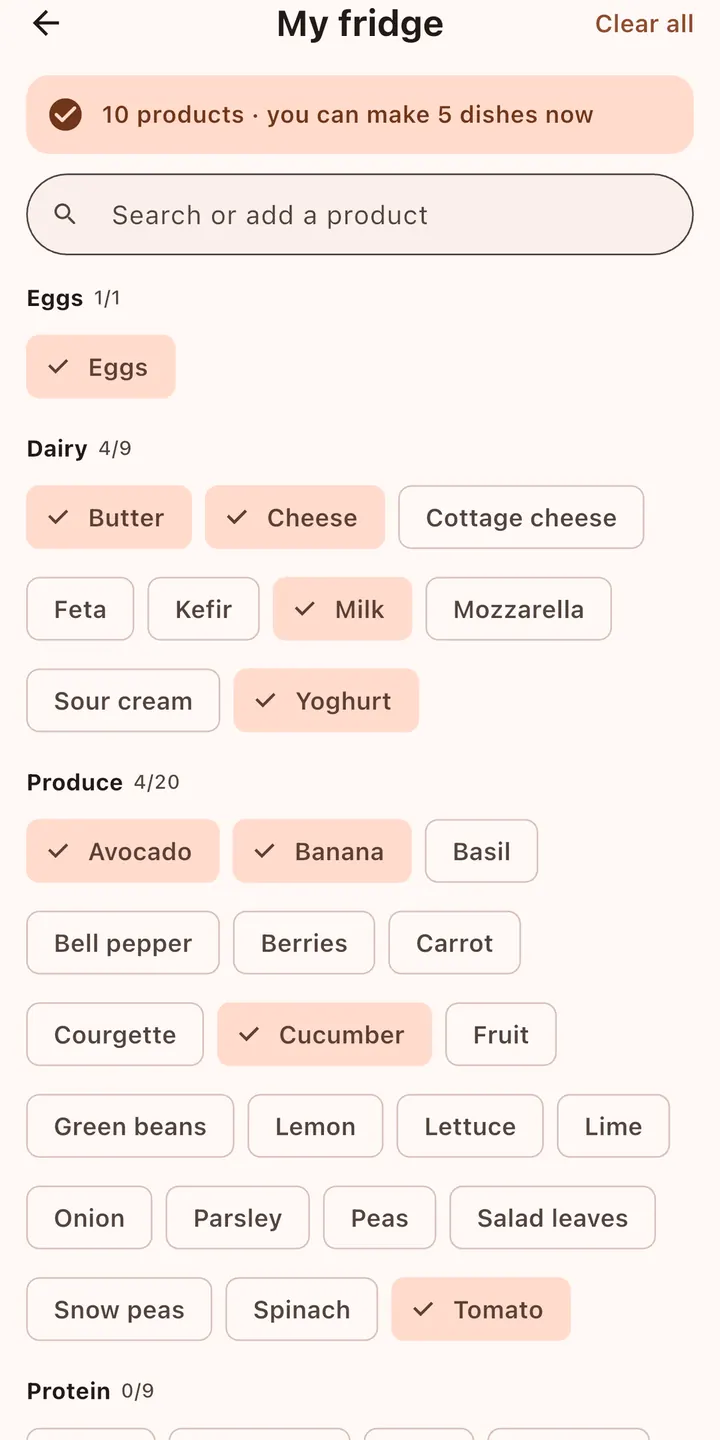
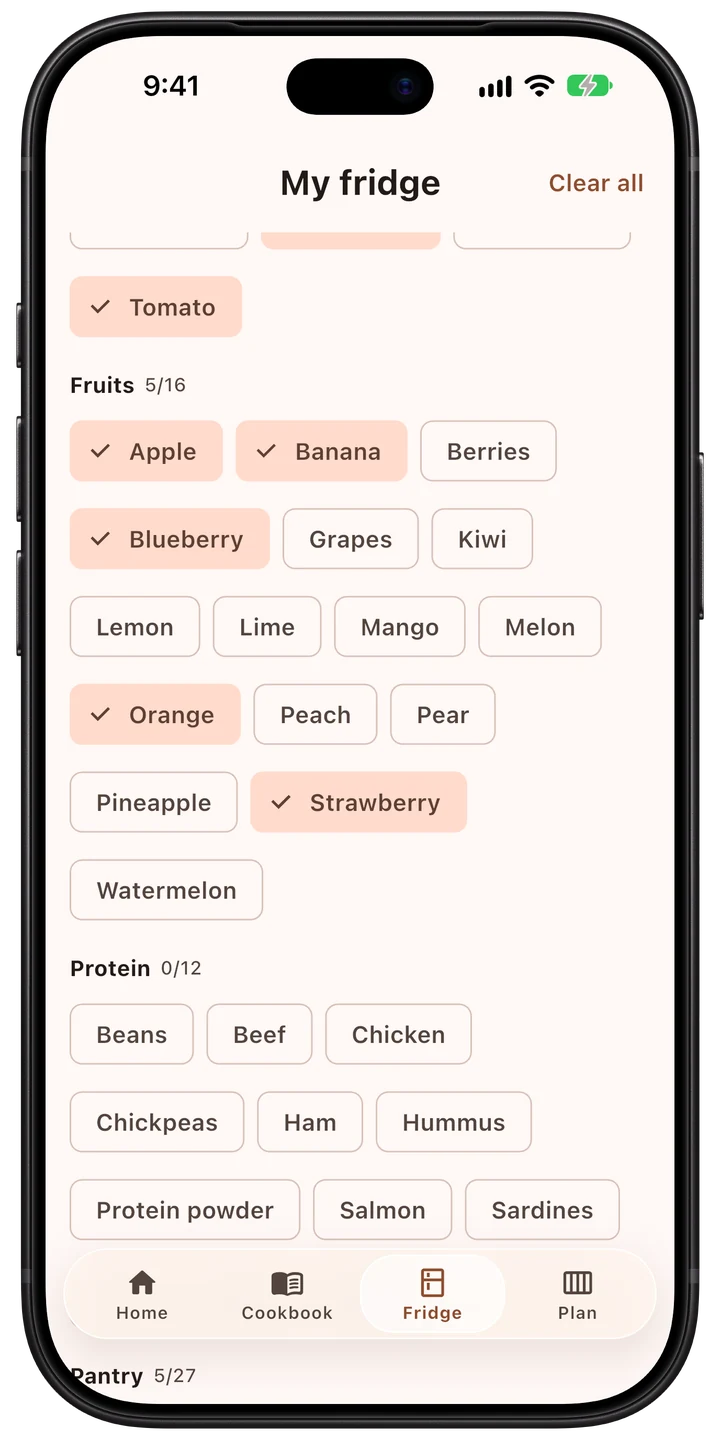
Update framed screenshots for Home, Cookbook, Fridge, Plan and Units
Replace the Home, Fridge, Plan and Open Graph shots with the new
iPhone frames, add Cookbook and Units screenshots, and point the
Cookbook figure at 08_cookbook instead of 01_home.

diff --git a/docs/index.html b/docs/index.html
@@ -31,7 +31,7 @@
 <link rel="icon" href="/fridge-pick-support/favicon.png" type="image/png">
 <link rel="apple-touch-icon" href="/fridge-pick-support/apple-touch-icon.png">
 <link rel="stylesheet" href="/fridge-pick-support/assets/site.css?v=a120239c">
-<script type="application/ld+json">{"@context":"https://schema.org","@graph":[{"@type":"WebSite","@id":"https://pavel-ship-it.github.io/fridge-pick-support/#website","name":"Fridge Pick","url":"https://pavel-ship-it.github.io/fridge-pick-support/","inLanguage":"en","publisher":{"@type":"Person","name":"Pavel Yakimenko"}},{"@type":"MobileApplication","@id":"https://pavel-ship-it.github.io/fridge-pick-support/#app","name":"Fridge Pick: Quick Meal Ideas","alternateName":"Fridge Pick","description":"Tick what’s in your fridge and Home shows what you can cook right now. Quick recipes (15 min or less), a cookbook, I’m hungry suggestions, a week plan and a shopping list. Metric or imperial units. Offline, no account.","url":"https://pavel-ship-it.github.io/fridge-pick-support/","operatingSystem":"iOS, Android","applicationCategory":"LifestyleApplication","applicationSubCategory":"Food & Drink","softwareVersion":"1.0.0","image":"https://pavel-ship-it.github.io/fridge-pick-support/assets/img/icon-512.jpg","screenshot":["https://pavel-ship-it.github.io/fridge-pick-support/assets/img/01_home-720.webp","https://pavel-ship-it.github.io/fridge-pick-support/assets/img/02_recipe-720.webp","https://pavel-ship-it.github.io/fridge-pick-support/assets/img/03_im_hungry-720.webp","https://pavel-ship-it.github.io/fridge-pick-support/assets/img/05_week_plan-720.webp","https://pavel-ship-it.github.io/fridge-pick-support/assets/img/06_shopping_list-720.webp","https://pavel-ship-it.github.io/fridge-pick-support/assets/img/07_my_fridge-720.webp"],"featureList":["Home: what you can cook from what’s at home, with a glass tab bar (Home, Cookbook, Fridge, Plan)","My fridge: tick the products you have, including individual fruits, and see dishes you can make now","Seasonal dishes: an In season line on Home and a Seasonal filter, using the hemisphere of your region","Units: Auto (from the phone), Metric or Imperial","Quick dishes, 15 minutes or less, with photos, recipes and nutrition per serving","I'm hungry: answer a few quick questions and get 3–5 dish suggestions","Week plan for the next 7 days with Fill week and replacement suggestions","Shopping list built from your week plan, shareable as text","Share any recipe as an image card","Allergy filters (11 common allergens) and excluded ingredients","Recipes adapt to your kitchen appliances","Favorites, your own dishes, works fully offline with no account"],"author":{"@type":"Person","name":"Pavel Yakimenko","email":"mailto:dreamcomenull@gmail.com"},"publisher":{"@type":"Person","name":"Pavel Yakimenko"},"inLanguage":"en","sameAs":["https://apps.apple.com/app/id6828103127"]}]}</script>
+<script type="application/ld+json">{"@context":"https://schema.org","@graph":[{"@type":"WebSite","@id":"https://pavel-ship-it.github.io/fridge-pick-support/#website","name":"Fridge Pick","url":"https://pavel-ship-it.github.io/fridge-pick-support/","inLanguage":"en","publisher":{"@type":"Person","name":"Pavel Yakimenko"}},{"@type":"MobileApplication","@id":"https://pavel-ship-it.github.io/fridge-pick-support/#app","name":"Fridge Pick: Quick Meal Ideas","alternateName":"Fridge Pick","description":"Tick what’s in your fridge and Home shows what you can cook right now. Quick recipes (15 min or less), a cookbook, I’m hungry suggestions, a week plan and a shopping list. Metric or imperial units. Offline, no account.","url":"https://pavel-ship-it.github.io/fridge-pick-support/","operatingSystem":"iOS, Android","applicationCategory":"LifestyleApplication","applicationSubCategory":"Food & Drink","softwareVersion":"1.0.0","image":"https://pavel-ship-it.github.io/fridge-pick-support/assets/img/icon-512.jpg","screenshot":["https://pavel-ship-it.github.io/fridge-pick-support/assets/img/01_home-720.webp","https://pavel-ship-it.github.io/fridge-pick-support/assets/img/08_cookbook-720.webp","https://pavel-ship-it.github.io/fridge-pick-support/assets/img/02_recipe-720.webp","https://pavel-ship-it.github.io/fridge-pick-support/assets/img/03_im_hungry-720.webp","https://pavel-ship-it.github.io/fridge-pick-support/assets/img/05_week_plan-720.webp","https://pavel-ship-it.github.io/fridge-pick-support/assets/img/06_shopping_list-720.webp","https://pavel-ship-it.github.io/fridge-pick-support/assets/img/07_my_fridge-720.webp","https://pavel-ship-it.github.io/fridge-pick-support/assets/img/09_settings_units-720.webp"],"featureList":["Home: what you can cook from what’s at home, with a glass tab bar (Home, Cookbook, Fridge, Plan)","My fridge: tick the products you have, including individual fruits, and see dishes you can make now","Seasonal dishes: an In season line on Home and a Seasonal filter, using the hemisphere of your region","Units: Auto (from the phone), Metric or Imperial","Quick dishes, 15 minutes or less, with photos, recipes and nutrition per serving","I'm hungry: answer a few quick questions and get 3–5 dish suggestions","Week plan for the next 7 days with Fill week and replacement suggestions","Shopping list built from your week plan, shareable as text","Share any recipe as an image card","Allergy filters (11 common allergens) and excluded ingredients","Recipes adapt to your kitchen appliances","Favorites, your own dishes, works fully offline with no account"],"author":{"@type":"Person","name":"Pavel Yakimenko","email":"mailto:dreamcomenull@gmail.com"},"publisher":{"@type":"Person","name":"Pavel Yakimenko"},"inLanguage":"en","sameAs":["https://apps.apple.com/app/id6828103127"]}]}</script>
 </head>
 <body class="page-home">
 <a class="skip" href="#main">Skip to content</a>
@@ -72,10 +72,10 @@
     </div>
     <div class="hero-shots">
       <figure class="shot">
-<img src="/fridge-pick-support/assets/img/07_my_fridge-360.webp" srcset="/fridge-pick-support/assets/img/07_my_fridge-360.webp 360w, /fridge-pick-support/assets/img/07_my_fridge-720.webp 720w" sizes="(max-width: 600px) 70vw, 300px" width="360" height="720" alt="My fridge screen: a search field and product chips grouped under Eggs, Dairy and Produce, with some items ticked" fetchpriority="high">
+<img src="/fridge-pick-support/assets/img/07_my_fridge-360.webp" srcset="/fridge-pick-support/assets/img/07_my_fridge-360.webp 360w, /fridge-pick-support/assets/img/07_my_fridge-720.webp 720w" sizes="(max-width: 600px) 70vw, 300px" width="360" height="720" alt="My fridge: the Fruits section with individual fruit chips such as Apple, Banana and Strawberry, and a glass tab bar with Fridge selected" fetchpriority="high">
 </figure>
       <figure class="shot">
-<img src="/fridge-pick-support/assets/img/01_home-360.webp" srcset="/fridge-pick-support/assets/img/01_home-360.webp 360w, /fridge-pick-support/assets/img/01_home-720.webp 720w" sizes="(max-width: 600px) 70vw, 300px" width="360" height="720" alt="Dish grid: filter chips, photos with fridge hints such as Can make now, and an I’m hungry button" fetchpriority="high">
+<img src="/fridge-pick-support/assets/img/01_home-360.webp" srcset="/fridge-pick-support/assets/img/01_home-360.webp 360w, /fridge-pick-support/assets/img/01_home-720.webp 720w" sizes="(max-width: 600px) 70vw, 300px" width="360" height="720" alt="Home: a hero dish card with an In season line, fridge chips, and a glass tab bar for Home, Cookbook, Fridge and Plan" fetchpriority="high">
 </figure>
     </div>
   </div>
@@ -127,7 +127,10 @@
   <h2 id="shots">Screenshots</h2>
   <div class="gallery" tabindex="0" aria-label="Screenshots, scroll sideways">
     <figure class="shot">
-<img src="/fridge-pick-support/assets/img/01_home-360.webp" srcset="/fridge-pick-support/assets/img/01_home-360.webp 360w, /fridge-pick-support/assets/img/01_home-720.webp 720w" sizes="(max-width: 600px) 70vw, 300px" width="360" height="720" alt="Dish grid with filter chips, fridge hints and an I’m hungry button" loading="lazy" decoding="async"><figcaption>Cookbook: dishes and filters</figcaption>
+<img src="/fridge-pick-support/assets/img/01_home-360.webp" srcset="/fridge-pick-support/assets/img/01_home-360.webp 360w, /fridge-pick-support/assets/img/01_home-720.webp 720w" sizes="(max-width: 600px) 70vw, 300px" width="360" height="720" alt="Home: a hero dish card with an In season line, fridge chips, and a glass tab bar for Home, Cookbook, Fridge and Plan" loading="lazy" decoding="async"><figcaption>Home</figcaption>
+</figure>
+    <figure class="shot">
+<img src="/fridge-pick-support/assets/img/08_cookbook-360.webp" srcset="/fridge-pick-support/assets/img/08_cookbook-360.webp 360w, /fridge-pick-support/assets/img/08_cookbook-720.webp 720w" sizes="(max-width: 600px) 70vw, 300px" width="360" height="720" alt="Cookbook: a grid of dish cards with filters such as Can make now, fridge hints, an I’m hungry button, and a glass tab bar with Cookbook selected" loading="lazy" decoding="async"><figcaption>Cookbook</figcaption>
 </figure>
     <figure class="shot">
 <img src="/fridge-pick-support/assets/img/02_recipe-360.webp" srcset="/fridge-pick-support/assets/img/02_recipe-360.webp 360w, /fridge-pick-support/assets/img/02_recipe-720.webp 720w" sizes="(max-width: 600px) 70vw, 300px" width="360" height="720" alt="Omelette dish page: time, stovetop method, ingredients with checkboxes and the I made this button" loading="lazy" decoding="async"><figcaption>Dish page with recipe</figcaption>
@@ -139,13 +142,16 @@
 <img src="/fridge-pick-support/assets/img/04_suggestions-360.webp" srcset="/fridge-pick-support/assets/img/04_suggestions-360.webp 360w, /fridge-pick-support/assets/img/04_suggestions-720.webp 720w" sizes="(max-width: 600px) 70vw, 300px" width="360" height="720" alt="Suggestions list “Try one of these” with reasons like “You have everything” and “Never tried yet”" loading="lazy" decoding="async"><figcaption>Suggestions</figcaption>
 </figure>
     <figure class="shot">
-<img src="/fridge-pick-support/assets/img/05_week_plan-360.webp" srcset="/fridge-pick-support/assets/img/05_week_plan-360.webp 360w, /fridge-pick-support/assets/img/05_week_plan-720.webp 720w" sizes="(max-width: 600px) 70vw, 300px" width="360" height="720" alt="Week plan for the next 7 days with up to 3 dishes per day and a Fill week button" loading="lazy" decoding="async"><figcaption>Week plan</figcaption>
+<img src="/fridge-pick-support/assets/img/05_week_plan-360.webp" srcset="/fridge-pick-support/assets/img/05_week_plan-360.webp 360w, /fridge-pick-support/assets/img/05_week_plan-720.webp 720w" sizes="(max-width: 600px) 70vw, 300px" width="360" height="720" alt="Plan tab: the week plan for the coming days, and a glass tab bar with Plan selected" loading="lazy" decoding="async"><figcaption>Plan</figcaption>
 </figure>
     <figure class="shot">
 <img src="/fridge-pick-support/assets/img/06_shopping_list-360.webp" srcset="/fridge-pick-support/assets/img/06_shopping_list-360.webp 360w, /fridge-pick-support/assets/img/06_shopping_list-720.webp 720w" sizes="(max-width: 600px) 70vw, 300px" width="360" height="720" alt="Shopping list for planned dishes with checkboxes" loading="lazy" decoding="async"><figcaption>Shopping list</figcaption>
 </figure>
     <figure class="shot">
-<img src="/fridge-pick-support/assets/img/07_my_fridge-360.webp" srcset="/fridge-pick-support/assets/img/07_my_fridge-360.webp 360w, /fridge-pick-support/assets/img/07_my_fridge-720.webp 720w" sizes="(max-width: 600px) 70vw, 300px" width="360" height="720" alt="My fridge: search and product chips grouped by Eggs, Dairy and Produce" loading="lazy" decoding="async"><figcaption>My fridge</figcaption>
+<img src="/fridge-pick-support/assets/img/07_my_fridge-360.webp" srcset="/fridge-pick-support/assets/img/07_my_fridge-360.webp 360w, /fridge-pick-support/assets/img/07_my_fridge-720.webp 720w" sizes="(max-width: 600px) 70vw, 300px" width="360" height="720" alt="My fridge: the Fruits section with individual fruit chips such as Apple, Banana and Strawberry, and a glass tab bar with Fridge selected" loading="lazy" decoding="async"><figcaption>My fridge</figcaption>
+</figure>
+    <figure class="shot">
+<img src="/fridge-pick-support/assets/img/09_settings_units-360.webp" srcset="/fridge-pick-support/assets/img/09_settings_units-360.webp 360w, /fridge-pick-support/assets/img/09_settings_units-720.webp 720w" sizes="(max-width: 600px) 70vw, 300px" width="360" height="720" alt="Settings: the Units setting with Auto, Metric and Imperial; Auto is selected" loading="lazy" decoding="async"><figcaption>Units</figcaption>
 </figure>
   </div>
 </section>

diff --git a/docs/manual/index.html b/docs/manual/index.html
@@ -96,6 +96,9 @@
 <p>A glass tab bar floats along the bottom, the same on iPhone and Android. The screen shows through the blurred bar. The tabs are <span class="ui">Home</span>, <span class="ui">Cookbook</span>, <span class="ui">Fridge</span> and <span class="ui">Plan</span>. On a Russian phone they read <span class="ui">Главная</span>, <span class="ui">Книга</span>, <span class="ui">Холодильник</span> and <span class="ui">План</span>. <span class="ui">Fridge</span> opens My fridge. <span class="ui">Plan</span> opens the week plan. On Home, a list button opens the Cookbook and a gear opens <span class="ui">Settings</span>. The round <span class="ui">I’m hungry</span> button floats on the Cookbook, above the tab bar.</p>
 
 <h2 id="home">2. Home</h2>
+<figure class="side-shot">
+<img src="/fridge-pick-support/assets/img/01_home-360.webp" srcset="/fridge-pick-support/assets/img/01_home-360.webp 360w, /fridge-pick-support/assets/img/01_home-720.webp 720w" sizes="(max-width: 600px) 70vw, 300px" width="360" height="720" alt="Home: a hero dish card with an In season line, fridge chips, and a glass tab bar for Home, Cookbook, Fridge and Plan" loading="lazy" decoding="async"><figcaption>Home</figcaption>
+</figure>
 <p><span class="ui">Home</span> is the screen the app opens on. The title is Fridge Pick. It answers what you can cook from what’s at home. It is not the full list; that is the <a href="#cookbook">Cookbook</a>.</p>
 <p>Outlined chips along the top narrow the picks. They combine.</p>
 <ul>
@@ -117,10 +120,11 @@
 <p>Below that, two columns, each hidden when empty and showing at most six dishes: <span class="ui">Haven’t cooked lately</span> (<span class="ui">Давно не готовил</span>), for dishes you have cooked before and not in the last 5 days, and <span class="ui">Favorites</span> (<span class="ui">Любимое</span>).</p>
 <p>Home skips dishes you cooked today or yesterday. It also leaves out hidden dishes and dishes that don’t suit your allergies, excluded ingredients or kitchen. A dish is not hidden just for being out of season; the season only changes what comes first. The hemisphere comes from the phone’s region. A region mostly south of the equator, such as Australia, New Zealand, South Africa, Argentina, Chile or Brazil, uses the opposite season. Countries on the equator, and a region the app does not recognise, stay on the northern calendar: winter is December to February, spring March to May, summer June to August, and autumn September to November.</p>
 <p>If nothing is left, Home says “Nothing fits. Clear a filter or open the cookbook.” When you have already passed every pick, it says “That’s every pick for now.” An empty menu says “No dishes on your menu.” On a Russian phone those lines are “Ничего не подходит. Снимите фильтр или откройте книгу.”, “Это все варианты на сейчас.” and “В меню пока пусто.”</p>
+<div class="clear"></div>
 
 <h2 id="cookbook">3. Cookbook and dish cards</h2>
 <figure class="side-shot">
-<img src="/fridge-pick-support/assets/img/01_home-360.webp" srcset="/fridge-pick-support/assets/img/01_home-360.webp 360w, /fridge-pick-support/assets/img/01_home-720.webp 720w" sizes="(max-width: 600px) 70vw, 300px" width="360" height="720" alt="Dish grid: filter chips, photos, fridge hints and an I’m hungry button" loading="lazy" decoding="async"><figcaption>The cookbook</figcaption>
+<img src="/fridge-pick-support/assets/img/08_cookbook-360.webp" srcset="/fridge-pick-support/assets/img/08_cookbook-360.webp 360w, /fridge-pick-support/assets/img/08_cookbook-720.webp 720w" sizes="(max-width: 600px) 70vw, 300px" width="360" height="720" alt="Cookbook: a grid of dish cards with filters such as Can make now, fridge hints, an I’m hungry button, and a glass tab bar with Cookbook selected" loading="lazy" decoding="async"><figcaption>The cookbook</figcaption>
 </figure>
 <p>The <span class="ui">Cookbook</span> tab (<span class="ui">Книга</span> in Russian) is the full list of dishes, as photo cards. The title is Fridge Pick. Dishes you have never made come first, followed by the ones you haven’t had for the longest time, so the grid keeps your meals varied.</p>
 <p>Each card can show:</p>
@@ -151,7 +155,7 @@
 
 <h2 id="my-fridge">5. My fridge</h2>
 <figure class="side-shot">
-<img src="/fridge-pick-support/assets/img/07_my_fridge-360.webp" srcset="/fridge-pick-support/assets/img/07_my_fridge-360.webp 360w, /fridge-pick-support/assets/img/07_my_fridge-720.webp 720w" sizes="(max-width: 600px) 70vw, 300px" width="360" height="720" alt="My fridge screen with a search field and product chips grouped by Eggs, Dairy and Produce" loading="lazy" decoding="async"><figcaption>My fridge</figcaption>
+<img src="/fridge-pick-support/assets/img/07_my_fridge-360.webp" srcset="/fridge-pick-support/assets/img/07_my_fridge-360.webp 360w, /fridge-pick-support/assets/img/07_my_fridge-720.webp 720w" sizes="(max-width: 600px) 70vw, 300px" width="360" height="720" alt="My fridge: the Fruits section with individual fruit chips such as Apple, Banana and Strawberry, and a glass tab bar with Fridge selected" loading="lazy" decoding="async"><figcaption>My fridge</figcaption>
 </figure>
 <p>My fridge is the list of products you have at home. Open it with the <span class="ui">Fridge</span> tab, or <span class="ui">Settings → My fridge</span>. The screen title stays <span class="ui">My fridge</span>. Fridge Pick compares it with each dish’s ingredients to show what you can cook right now.</p>
 <h3>How to fill your fridge</h3>
@@ -240,7 +244,7 @@
 
 <h2 id="week-plan">10. Week plan</h2>
 <figure class="side-shot">
-<img src="/fridge-pick-support/assets/img/05_week_plan-360.webp" srcset="/fridge-pick-support/assets/img/05_week_plan-360.webp 360w, /fridge-pick-support/assets/img/05_week_plan-720.webp 720w" sizes="(max-width: 600px) 70vw, 300px" width="360" height="720" alt="Week plan: the next 7 days starting with Today, each with up to 3 dishes, add and remove buttons, and a Fill week button" loading="lazy" decoding="async"><figcaption>The week plan</figcaption>
+<img src="/fridge-pick-support/assets/img/05_week_plan-360.webp" srcset="/fridge-pick-support/assets/img/05_week_plan-360.webp 360w, /fridge-pick-support/assets/img/05_week_plan-720.webp 720w" sizes="(max-width: 600px) 70vw, 300px" width="360" height="720" alt="Plan tab: the week plan for the coming days, and a glass tab bar with Plan selected" loading="lazy" decoding="async"><figcaption>The week plan</figcaption>
 </figure>
 <p>Plan meals for the next 7 days, starting today, with up to 3 dishes a day. Days can also stay empty.</p>
 <h3>Fill the week automatically</h3>
@@ -310,6 +314,9 @@
 </ul>
 
 <h2 id="units">14. Settings: Units</h2>
+<figure class="side-shot">
+<img src="/fridge-pick-support/assets/img/09_settings_units-360.webp" srcset="/fridge-pick-support/assets/img/09_settings_units-360.webp 360w, /fridge-pick-support/assets/img/09_settings_units-720.webp 720w" sizes="(max-width: 600px) 70vw, 300px" width="360" height="720" alt="Settings: the Units setting with Auto, Metric and Imperial; Auto is selected" loading="lazy" decoding="async"><figcaption>Units</figcaption>
+</figure>
 <p>Recipe amounts, oven temperatures and lengths can show in metric or in US customary units. The recipes themselves stay metric; only the display changes, including on a shared recipe card. Nutrition stays in grams. Open <span class="ui">Settings</span> and find <span class="ui">Units</span> (<span class="ui">Единицы</span> on a Russian phone). The choice is saved on the phone, and an open recipe updates when you change it.</p>
 <ul>
   <li><span class="ui">Auto</span> (<span class="ui">Авто</span>) is the default. It follows the phone’s measurement setting when iOS or Android reports one. A metric setting shows grams, milliliters and °C. A US, imperial or UK measurement setting shows ounces, cups and °F. When the phone does not report a measurement system, the United States, Liberia and Myanmar use imperial, and every other region uses metric. The line under the heading says which, for example “Follows your phone · grams, milliliters and °C” (“Как на телефоне · граммы, миллилитры и °C”).</li>
@@ -317,6 +324,7 @@
   <li><span class="ui">Imperial</span> (<span class="ui">Имперские</span>): ounces, cups and °F (<span class="ui">Унции, чашки и °F</span>).</li>
 </ul>
 <p>A line that already gives both, such as 180°C (360°F) or 1 cup (240 ml), keeps the side that matches your choice. Counts, pinches, “to taste”, and spoon measures already written as tsp or tbsp stay as written.</p>
+<div class="clear"></div>
 
 <h2 id="allergies">15. Settings: Allergies</h2>
 <p>Choose your allergens and intolerances from 11 common ones: Gluten, Dairy / lactose, Eggs, Peanuts, Tree nuts, Soy, Fish, Shellfish, Sesame, Celery and Mustard.</p>

diff --git a/site/content/en/manual.html b/site/content/en/manual.html
@@ -42,6 +42,7 @@
 <p>A glass tab bar floats along the bottom, the same on iPhone and Android. The screen shows through the blurred bar. The tabs are <span class="ui">Home</span>, <span class="ui">Cookbook</span>, <span class="ui">Fridge</span> and <span class="ui">Plan</span>. On a Russian phone they read <span class="ui">Главная</span>, <span class="ui">Книга</span>, <span class="ui">Холодильник</span> and <span class="ui">План</span>. <span class="ui">Fridge</span> opens My fridge. <span class="ui">Plan</span> opens the week plan. On Home, a list button opens the Cookbook and a gear opens <span class="ui">Settings</span>. The round <span class="ui">I’m hungry</span> button floats on the Cookbook, above the tab bar.</p>
 
 <h2 id="home">2. Home</h2>
+{{ shot('01_home', 'Home: a hero dish card with an In season line, fridge chips, and a glass tab bar for Home, Cookbook, Fridge and Plan', 'Home', cls='side-shot') }}
 <p><span class="ui">Home</span> is the screen the app opens on. The title is Fridge Pick. It answers what you can cook from what’s at home. It is not the full list; that is the <a href="#cookbook">Cookbook</a>.</p>
 <p>Outlined chips along the top narrow the picks. They combine.</p>
 <ul>
@@ -63,9 +64,10 @@
 <p>Below that, two columns, each hidden when empty and showing at most six dishes: <span class="ui">Haven’t cooked lately</span> (<span class="ui">Давно не готовил</span>), for dishes you have cooked before and not in the last 5 days, and <span class="ui">Favorites</span> (<span class="ui">Любимое</span>).</p>
 <p>Home skips dishes you cooked today or yesterday. It also leaves out hidden dishes and dishes that don’t suit your allergies, excluded ingredients or kitchen. A dish is not hidden just for being out of season; the season only changes what comes first. The hemisphere comes from the phone’s region. A region mostly south of the equator, such as Australia, New Zealand, South Africa, Argentina, Chile or Brazil, uses the opposite season. Countries on the equator, and a region the app does not recognise, stay on the northern calendar: winter is December to February, spring March to May, summer June to August, and autumn September to November.</p>
 <p>If nothing is left, Home says “Nothing fits. Clear a filter or open the cookbook.” When you have already passed every pick, it says “That’s every pick for now.” An empty menu says “No dishes on your menu.” On a Russian phone those lines are “Ничего не подходит. Снимите фильтр или откройте книгу.”, “Это все варианты на сейчас.” and “В меню пока пусто.”</p>
+<div class="clear"></div>
 
 <h2 id="cookbook">3. Cookbook and dish cards</h2>
-{{ shot('01_home', 'Dish grid: filter chips, photos, fridge hints and an I’m hungry button', 'The cookbook', cls='side-shot') }}
+{{ shot('08_cookbook', 'Cookbook: a grid of dish cards with filters such as Can make now, fridge hints, an I’m hungry button, and a glass tab bar with Cookbook selected', 'The cookbook', cls='side-shot') }}
 <p>The <span class="ui">Cookbook</span> tab (<span class="ui">Книга</span> in Russian) is the full list of dishes, as photo cards. The title is Fridge Pick. Dishes you have never made come first, followed by the ones you haven’t had for the longest time, so the grid keeps your meals varied.</p>
 <p>Each card can show:</p>
 <ul>
@@ -94,7 +96,7 @@
 <p>If no dish matches, tap <span class="ui">Clear filters</span>.</p>
 
 <h2 id="my-fridge">5. My fridge</h2>
-{{ shot('07_my_fridge', 'My fridge screen with a search field and product chips grouped by Eggs, Dairy and Produce', 'My fridge', cls='side-shot') }}
+{{ shot('07_my_fridge', 'My fridge: the Fruits section with individual fruit chips such as Apple, Banana and Strawberry, and a glass tab bar with Fridge selected', 'My fridge', cls='side-shot') }}
 <p>My fridge is the list of products you have at home. Open it with the <span class="ui">Fridge</span> tab, or <span class="ui">Settings → My fridge</span>. The screen title stays <span class="ui">My fridge</span>. Fridge Pick compares it with each dish’s ingredients to show what you can cook right now.</p>
 <h3>How to fill your fridge</h3>
 <ol class="how">
@@ -175,7 +177,7 @@
 <div class="clear"></div>
 
 <h2 id="week-plan">10. Week plan</h2>
-{{ shot('05_week_plan', 'Week plan: the next 7 days starting with Today, each with up to 3 dishes, add and remove buttons, and a Fill week button', 'The week plan', cls='side-shot') }}
+{{ shot('05_week_plan', 'Plan tab: the week plan for the coming days, and a glass tab bar with Plan selected', 'The week plan', cls='side-shot') }}
 <p>Plan meals for the next 7 days, starting today, with up to 3 dishes a day. Days can also stay empty.</p>
 <h3>Fill the week automatically</h3>
 <ol class="how">
@@ -242,6 +244,7 @@
 </ul>
 
 <h2 id="units">14. Settings: Units</h2>
+{{ shot('09_settings_units', 'Settings: the Units setting with Auto, Metric and Imperial; Auto is selected', 'Units', cls='side-shot') }}
 <p>Recipe amounts, oven temperatures and lengths can show in metric or in US customary units. The recipes themselves stay metric; only the display changes, including on a shared recipe card. Nutrition stays in grams. Open <span class="ui">Settings</span> and find <span class="ui">Units</span> (<span class="ui">Единицы</span> on a Russian phone). The choice is saved on the phone, and an open recipe updates when you change it.</p>
 <ul>
   <li><span class="ui">Auto</span> (<span class="ui">Авто</span>) is the default. It follows the phone’s measurement setting when iOS or Android reports one. A metric setting shows grams, milliliters and °C. A US, imperial or UK measurement setting shows ounces, cups and °F. When the phone does not report a measurement system, the United States, Liberia and Myanmar use imperial, and every other region uses metric. The line under the heading says which, for example “Follows your phone · grams, milliliters and °C” (“Как на телефоне · граммы, миллилитры и °C”).</li>
@@ -249,6 +252,7 @@
   <li><span class="ui">Imperial</span> (<span class="ui">Имперские</span>): ounces, cups and °F (<span class="ui">Унции, чашки и °F</span>).</li>
 </ul>
 <p>A line that already gives both, such as 180°C (360°F) or 1 cup (240 ml), keeps the side that matches your choice. Counts, pinches, “to taste”, and spoon measures already written as tsp or tbsp stay as written.</p>
+<div class="clear"></div>
 
 <h2 id="allergies">15. Settings: Allergies</h2>
 <p>Choose your allergens and intolerances from 11 common ones: Gluten, Dairy / lactose, Eggs, Peanuts, Tree nuts, Soy, Fish, Shellfish, Sesame, Celery and Mustard.</p>

diff --git a/site/content/en/home.html b/site/content/en/home.html
@@ -18,8 +18,8 @@
       {{ badges(stores, t) }}
     </div>
     <div class="hero-shots">
-      {{ shot('07_my_fridge', 'My fridge screen: a search field and product chips grouped under Eggs, Dairy and Produce, with some items ticked', eager=True) }}
-      {{ shot('01_home', 'Dish grid: filter chips, photos with fridge hints such as Can make now, and an I’m hungry button', eager=True) }}
+      {{ shot('07_my_fridge', 'My fridge: the Fruits section with individual fruit chips such as Apple, Banana and Strawberry, and a glass tab bar with Fridge selected', eager=True) }}
+      {{ shot('01_home', 'Home: a hero dish card with an In season line, fridge chips, and a glass tab bar for Home, Cookbook, Fridge and Plan', eager=True) }}
     </div>
   </div>
   <div class="wrap">
@@ -69,13 +69,15 @@
 <section class="section" aria-labelledby="shots">
   <h2 id="shots">Screenshots</h2>
   <div class="gallery" tabindex="0" aria-label="Screenshots, scroll sideways">
-    {{ shot('01_home', 'Dish grid with filter chips, fridge hints and an I’m hungry button', 'Cookbook: dishes and filters') }}
+    {{ shot('01_home', 'Home: a hero dish card with an In season line, fridge chips, and a glass tab bar for Home, Cookbook, Fridge and Plan', 'Home') }}
+    {{ shot('08_cookbook', 'Cookbook: a grid of dish cards with filters such as Can make now, fridge hints, an I’m hungry button, and a glass tab bar with Cookbook selected', 'Cookbook') }}
     {{ shot('02_recipe', 'Omelette dish page: time, stovetop method, ingredients with checkboxes and the I made this button', 'Dish page with recipe') }}
     {{ shot('03_im_hungry', 'I’m hungry question: How much time do you have? with 5 min, 15 min and No rush options', 'I’m hungry questions') }}
     {{ shot('04_suggestions', 'Suggestions list “Try one of these” with reasons like “You have everything” and “Never tried yet”', 'Suggestions') }}
-    {{ shot('05_week_plan', 'Week plan for the next 7 days with up to 3 dishes per day and a Fill week button', 'Week plan') }}
+    {{ shot('05_week_plan', 'Plan tab: the week plan for the coming days, and a glass tab bar with Plan selected', 'Plan') }}
     {{ shot('06_shopping_list', 'Shopping list for planned dishes with checkboxes', 'Shopping list') }}
-    {{ shot('07_my_fridge', 'My fridge: search and product chips grouped by Eggs, Dairy and Produce', 'My fridge') }}
+    {{ shot('07_my_fridge', 'My fridge: the Fruits section with individual fruit chips such as Apple, Banana and Strawberry, and a glass tab bar with Fridge selected', 'My fridge') }}
+    {{ shot('09_settings_units', 'Settings: the Units setting with Auto, Metric and Imperial; Auto is selected', 'Units') }}
   </div>
 </section>
 

diff --git a/site/build.py b/site/build.py
@@ -190,7 +190,7 @@ def home_ld(page):
         'operatingSystem': 'iOS, Android', 'applicationCategory': 'LifestyleApplication',
         'applicationSubCategory': 'Food & Drink', 'softwareVersion': '1.0.0',
         'image': abs_('/assets/img/icon-512.jpg'),
-        'screenshot': [abs_(f'/assets/img/{n}-720.webp') for n in ('01_home', '02_recipe', '03_im_hungry', '05_week_plan', '06_shopping_list', '07_my_fridge')],
+        'screenshot': [abs_(f'/assets/img/{n}-720.webp') for n in ('01_home', '08_cookbook', '02_recipe', '03_im_hungry', '05_week_plan', '06_shopping_list', '07_my_fridge', '09_settings_units')],
         'featureList': feats,
         'author': {'@type': 'Person', 'name': 'Pavel Yakimenko', 'email': 'mailto:dreamcomenull@gmail.com'},
         'publisher': {'@type': 'Person', 'name': 'Pavel Yakimenko'},
